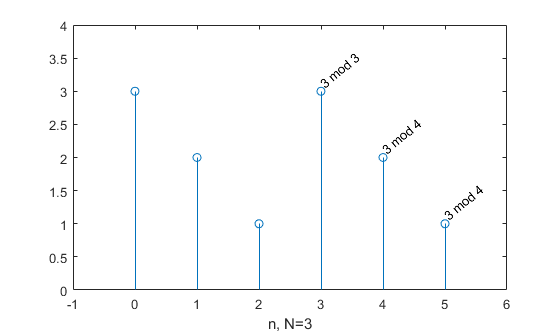
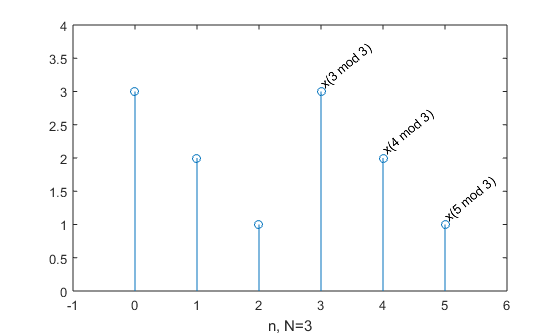
Updated some more figures

Changed region(s): [[0.0911, 0.0601, 0.9107, 0.9309], [0.6071, 0.1201, 0.6679, 0.2102]]

diff --git a/lecture9_10/figures.m b/lecture9_10/figures.m
@@ -38,9 +38,9 @@ stem(x,y)
 xlim([-1 6])
 ylim([0 4])
 xlabel('n, N=3')
-text(3,3.1,'3 mod 3','rotation',40)
-text(4,2.1,'3 mod 4','rotation',40)
-text(5,1.1,'3 mod 4','rotation',40)
+text(3,3.1,'x(3 mod 3)','rotation',40)
+text(4,2.1,'x(4 mod 3)','rotation',40)
+text(5,1.1,'x(5 mod 3)','rotation',40)
 
 %% circle 1
 figure(3);clf;
